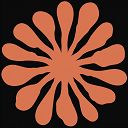
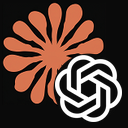
feat(v1.9.1): 마켓 아이콘에 Codex 마크 추가
확장은 Claude 가 중심이지만 여러 릴리즈째 Codex 세션도 읽고 있었는데
아이콘은 그 사실을 전혀 말하지 않았다. Claude 별을 주인공으로 두고
우하단에 OpenAI 마크를 배지로 얹었다.

마크는 이 PC 에 깔린 ChatGPT VS Code 확장의 blossom.dark.png 다. 흰 마크에
불투명 검은 배경이라 밝기를 알파로 돌려 원본 안티에일리어싱을 그대로 살렸다.
원본이 한쪽에 8.3% 씩 자체 여백을 갖고 있어 그대로 쓰면 검은 패딩이 두 겹이
되므로, mark() 에서 잉크 경계로 crop 한 뒤 쓴다. 매듭 틈으로 별 꽃잎이
비치기 때문에 뒤에 배경색 원반을 최소한(1.04배)만 깐다.

재생성할 수 있도록 images/icon-src/ 에 별만 있는 원본과 작도 스크립트를
남겼다. 별 크기·배지 폭·위치·원반 비율이 전부 상단 상수다. 타사 확장 폴더를
직접 참조하면 그쪽 업데이트에 깨지므로 마크도 사본으로 뒀다. vsix 에서는
provider-icons-src 와 같은 방식으로 제외한다.

마크는 OpenAI 상표다. 어느 CLI 를 읽는 확장인지 가리키는 용도로 쓴다.

아이콘만 바뀌었다. 코드·설정·동작 변경은 없다.

diff --git a/images/icon-src/make-icon.py b/images/icon-src/make-icon.py
@@ -1,0 +1,86 @@
+#!/usr/bin/env python3
+"""Rebuild images/icon.png — the Claude star with a Codex badge in the corner.
+
+The extension is Claude-first, but it also reads Codex CLI sessions, so the
+marketplace icon carries both: the star stays the subject, the OpenAI mark sits
+in the bottom-right as a badge.
+
+Sources kept next to this script so the icon can be regenerated later:
+  icon-star.png       the original star-only artwork (never overwritten)
+  codex-blossom.png   OpenAI's "blossom" mark, copied from the ChatGPT VS Code
+                      extension (resources/blossom.dark.png). White mark on an
+                      opaque black square; the black is dropped below.
+
+The mark is an OpenAI trademark, used here to identify which CLI the extension
+reads. Neither logo is ours.
+
+Run from anywhere:  python images/icon-src/make-icon.py
+Requires Pillow.
+"""
+
+from pathlib import Path
+
+from PIL import Image, ImageDraw
+
+HERE = Path(__file__).resolve().parent
+STAR_SRC = HERE / "icon-star.png"
+BADGE_SRC = HERE / "codex-blossom.png"
+OUT = HERE.parent / "icon.png"
+
+SIZE = 128          # marketplace icon is 128x128
+SS = 8              # supersample factor; the disc is drawn 8x and downsampled
+BG = (10, 10, 10, 255)          # sampled from the original artwork
+
+STAR_SCALE = 0.82   # shrink the star to open up the bottom-right corner
+STAR_SHIFT = 10     # ...and nudge it up-left, away from the badge
+BADGE_WIDTH = 0.523 # width of the mark itself, as a fraction of the canvas.
+                    # Measured on the trimmed artwork, so this is the visible
+                    # size — the source PNG's own 8% margin is cropped away in
+                    # mark() rather than padding the badge out.
+BADGE_MARGIN = 6    # px from the bottom/right edge; keeps the mark off the
+                    # corner, centred where the smaller badge used to sit
+DISC = 1.04         # background disc behind the mark, relative to mark width.
+                    # Without it the petals show through the gaps in the knot;
+                    # 1.04 is just enough to back the knot without reading as
+                    # padding around it.
+
+
+def mark(px: int) -> Image.Image:
+    """The blossom as white-on-transparent, trimmed to the ink.
+
+    The source is a white mark on opaque black, so luminance doubles as the
+    alpha channel — which keeps the original anti-aliasing intact. It also
+    carries ~8% margin per side; that gets cropped here so `px` means the mark
+    itself, not the mark plus a band of black.
+    """
+    src = Image.open(BADGE_SRC).convert("RGBA")
+    trimmed = Image.new("RGBA", src.size, (255, 255, 255, 0))
+    trimmed.putalpha(src.convert("L"))
+    return trimmed.crop(trimmed.getbbox()).resize((px, px), Image.LANCZOS)
+
+
+def build() -> Image.Image:
+    canvas = Image.new("RGBA", (SIZE, SIZE), BG)
+
+    star_px = int(SIZE * STAR_SCALE)
+    star = Image.open(STAR_SRC).convert("RGBA").resize((star_px, star_px), Image.LANCZOS)
+    offset = (SIZE - star_px) // 2 - STAR_SHIFT
+    canvas.paste(star, (offset, offset))
+
+    badge_px = round(SIZE * BADGE_WIDTH)
+    x = y = SIZE - badge_px - BADGE_MARGIN
+
+    disc = Image.new("RGBA", (SIZE * SS, SIZE * SS), (0, 0, 0, 0))
+    d = badge_px * DISC * SS
+    cx = (x + badge_px / 2) * SS
+    cy = (y + badge_px / 2) * SS
+    ImageDraw.Draw(disc).ellipse([cx - d / 2, cy - d / 2, cx + d / 2, cy + d / 2], fill=BG)
+    canvas.alpha_composite(disc.resize((SIZE, SIZE), Image.LANCZOS))
+
+    canvas.alpha_composite(mark(badge_px), (x, y))
+    return canvas
+
+
+if __name__ == "__main__":
+    build().save(OUT)
+    print(f"wrote {OUT}")

diff --git a/CHANGELOG.md b/CHANGELOG.md
@@ -1,5 +1,13 @@
 # Changelog
 
+## [1.9.1] - 2026-08-19
+
+The marketplace icon now shows both tools. The extension is Claude-first and the icon said
+only that, even though it has read Codex sessions for several releases. The Claude star is
+still the subject; OpenAI's mark sits in the bottom-right corner as a badge.
+
+Icon only. No code, settings or behaviour changed.
+
 ## [1.9.0] - 2026-08-19
 
 > **Codex is no longer a black box while it works.** When Claude Code sends a problem to Codex
